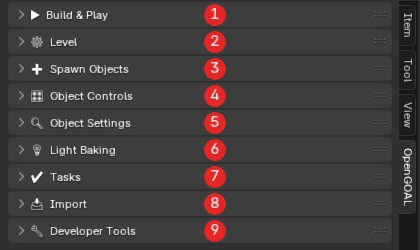
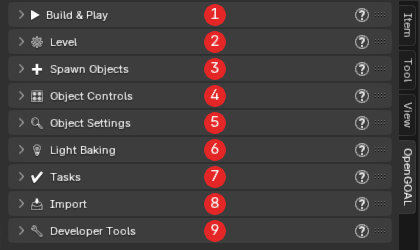
Docs: Warning Settings, Import Settings from .blend, ? guide buttons, bin buttons, helper collections, model list without duplicates; screenshots retaken with the ? buttons

diff --git a/docs/guide/paths-and-platforms.md b/docs/guide/paths-and-platforms.md
@@ -29,6 +29,7 @@ The list shows every **source** of the path in order: an empty is one point, and
 | Magnifier | Selects and frames the highlighted source. |
 | **Edit** (pencil) | Selects the source. A curve goes straight into Edit Mode. |
 | X | Removes the source from the path (the object stays in the scene). |
+| Bin | Removes the source **and deletes** the curve or empty from the scene (it asks first). |
 | Up / down arrows | Change the order. |
 
 A source that was deleted shows in red ("DELETED"). Remove it with X.
@@ -76,7 +77,7 @@ The **Path Mode** box under the list decides how the points are turned into the 
 
 Under the path, **Lump** is the lump name the main path exports to (normally `path`). **Keyframe** is an optional lump keyframe (blank = default).
 
-Some actors read more than one path. The swamp bat needs `path` and `pathb`, and the battle controller uses `patha` ... `pathh` and `pathspawn`. These actors get **Add Path** (for example "Add Path (pathb)"). Each extra path has its own box with a name, **@** keyframe, its own list, Spawn Waypoint / Add Curve, and its own mode. X removes it, along with its add-on-made waypoints. Two paths with the same name are flagged: only the first exports.
+Some actors read more than one path. The swamp bat needs `path` and `pathb`, and the battle controller uses `patha` ... `pathh` and `pathspawn`. These actors get **Add Path** (for example "Add Path (pathb)"). Each extra path has its own box with a name, **@** keyframe, its own list, Spawn Waypoint / Add Curve, and its own mode. X removes it, along with its add-on-made waypoints; the bin next to it also deletes its curves. Two paths with the same name are flagged: only the first exports.
 
 ## Sharing one path
 
@@ -121,7 +122,8 @@ Platforms are in the **Platforms** tile of [Spawn Objects](actors.md#spawning-an
 - **Eco Platform** (`plat-eco`): a floating platform that wakes up when Jak brings blue eco. **Entity Links** has **next-actor** / **prev-actor** slots, so a chain of them wakes up together. Use **Chain N selected by name (prev / next)** to link a row in one click.
 - **Button Platform** (`plat-button`): a platform with a button that moves along its path. It requires a path with at least 2 points.
 - **Orbit Platform** (`orbit-plat`): needs a partner orbit-plat in **alt-actor** (both linked to each other). Standing on one makes the other circle around it, only where its nav-mesh allows, so give both a nav-mesh. **Orbit timeout (s)** resets them.
-- **Launcher** (`launcher`) and other launchers: **Actor Settings › Launcher Settings** has **Launch Height** (-1 = the art's default), **Camera on Launch**, an optional **Launch Destination** empty (**Add Destination Empty at Cursor** or **Link →**; not set = Jak goes straight up), and **Fly Time** (only needed with a destination).
+- **Launcher** (`launcher`) and other launchers: **Actor Settings › Launcher Settings** has **Launch Height** (-1 = the art's default), **Camera on Launch**, an optional **Launch Destination** empty (**Add Destination Empty at Cursor**, which goes into the **Waypoints** collection, or **Link →**; X unlinks it, the bin
+also deletes it; not set = Jak goes straight up), and **Fly Time** (only needed with a destination).
 
 See the [Actor list](actor-list.md#platforms) for all of them.
 

diff --git a/docs/guide/interface.md b/docs/guide/interface.md
@@ -20,9 +20,11 @@ The panels are listed top to bottom; the numbers match the sidebar screenshot.
 | ⑥ | **Light Baking** | Bake Cycles lighting into the meshes' vertex colours, with bake options, time of day and colour quantisation. | [Lighting](lighting.md) |
 | ⑦ | **Tasks** | Your own power cells and scout flies, and their texts. Needs mod-base. | [Tasks](tasks.md) |
 | ⑧ | **Import** | **Game 3D Models**, **Game Textures** and **From GOAL Files** (read an existing level's `.jsonc`). | [Importing](importing.md) |
-| ⑨ | **Developer Tools** | **Clean Files**, **Paths**, **Addon Settings** (launch timing, build settings, versions) and **Quick Open** for the generated files. | [Developer Tools](developer-tools.md) |
+| ⑨ | **Developer Tools** | **Clean Files**, **Paths**, **Addon Settings** (launch timing, build settings, versions, importing settings from another .blend), **Warning Settings** and **Quick Open** for the generated files. | [Developer Tools](developer-tools.md) |
 
-Most panels start closed. Click a panel's header to open it.
+Most panels start closed. Click a panel's header to open it. The **?** on the right of the main panels' headers (and
+of larger features such as **Path**, **NavMesh**, **Camera Settings** or **GOAL Code**) opens that part of this guide in
+your browser.
 
 ## How a level is laid out
 
@@ -34,10 +36,10 @@ A level is a top-level collection in the Outliner (① in the Outliner screensho
 |---|---|
 | **Geometry** ② | The level's 3D model: every mesh in here and in its sub-collections is exported as the level's `.glb`. The add-on puts loose meshes in **Geometry › Solid**. |
 | **Spawnables** ③ | Actors, sorted by type: **Enemies** (bosses too), **Platforms**, **Props & Objects**, **NPCs**, **Pickups**. |
-| **Waypoints** ④ | The waypoint empties of actors' paths. |
+| **Waypoints** ④ | The waypoint empties of actors' paths, and launchers' destinations (`DEST_`). |
 | **Paths** | Curves used as paths. |
 | **Spawns** ⑤ | Checkpoints and their spawn cameras. |
-| **Cameras** ⑤ | `CAMERA_` cameras and their helper empties. |
+| **Cameras** ⑤ | `CAMERA_` cameras and their helper empties (anchor, pivot, look-at target). |
 | **Triggers** ⑤ | `VOL_` trigger volumes and load boundaries. |
 | **Water Volumes** | Water volumes. |
 | **Sound Emitters** | Sound emitters, music zones and hints. |
@@ -80,6 +82,9 @@ The add-on checks your level as you work. The results are only recomputed after 
 
 - **Red ⚠ count**: something is required but missing, for example an actor that must have a path or a link slot that must point to another actor. These can break the build or crash the game. Fix them first.
 - **Grey ⚠ count**: a soft warning. It works, but does less than you probably want, for example a sound whose sound bank the level doesn't load so it'll be missing.
+
+Warning types you don't care about can be turned off for the .blend in
+[Developer Tools › Warning Settings](developer-tools.md#warning-settings).
 
 The counts show next to **Export & Compile** for the whole level (⑤ in the Build & Play screenshot), and in an actor's **Object Settings** panels for that actor. Hover over a count to see what's missing; click it to see the list.
 

diff --git a/docs/guide/developer-tools.md b/docs/guide/developer-tools.md
@@ -8,7 +8,8 @@ when they work on several projects. The parts marked *advanced* can break a buil
 
 ![Sidebar](images/sidebar.png)
 
-At the top is **Clean Files**. Under it are three closed sub-menus: **Paths**, **Addon Settings** and **Quick Open**.
+At the top is **Clean Files**. Under it are four closed sub-menus: **Paths**, **Addon Settings**, **Warning Settings**
+and **Quick Open**.
 
 ---
 
@@ -150,6 +151,44 @@ How OpenGOAL is detected:
 | **Re-check Versions** | Detects the version again (after updating OpenGOAL or changing paths). |
 | **Overwrite** | Ignores the detection: **Detected** (normal), **Release**, **jak-project dev**, **mod-base dev**. Use it when the detection is wrong for your setup, e.g. a dev build without git. A dev build set by hand without git is taken as up to date. |
 | **v** | With **Overwrite: Release**, the release version (default 0.3.8). |
+
+### Import Settings from .blend
+
+Copies this add-on's settings from another .blend, for example when you start a new project file.
+
+1. Click **Import Settings from .blend** (at the bottom of Addon Settings) and pick the .blend.
+2. A dialog lists five groups, each with a checkbox: **Launch Timing**, **Build Settings**, **Export Filter**,
+   **Project Folders** and **Warning Settings**. Under each, it shows what would change as *current → imported*
+   (*Same as this .blend* when nothing would).
+3. Untick the groups you don't want and click **Import**. Ctrl+Z undoes it.
+
+The other file is only read: nothing else (objects, levels, collections) is brought in.
+
+---
+
+## Warning Settings
+
+Turns off whole types of warnings for this .blend: ignored types aren't counted in the ⚠ counts (next to **Export &
+Compile** and in Object Settings) and don't show in the **Level Audit**. The header shows how many types are ignored.
+Use it for warnings you know about and don't care about, for example sound banks while you're still blocking out a
+level. The settings are saved in the .blend.
+
+| Type | Kind |
+|---|---|
+| **Required link missing** | red |
+| **Required path missing** | red |
+| **Required field or task not set** | red |
+| **Sound emitter's sound bank not loaded** | red |
+| **Linked nav-mesh problems** | red |
+| **Nothing sends it 'trigger** | grey |
+| **Actor's sound bank not loaded (silent sounds)** | grey |
+| **Optional link missing** | grey |
+| **Not linked by the actor that should link it** | grey |
+| **No nav-mesh (idles, can't chase)** | grey |
+| **Nav-mesh soft issues** | grey |
+
+The red (required) types are shown in red, marked *(required)*: ignoring them hides problems that can crash the
+game or break the build. What each warning means: [Troubleshooting](troubleshooting.md#warning-counts-red-and-grey-).
 
 ---
 

diff --git a/docs/guide/actors.md b/docs/guide/actors.md
@@ -101,7 +101,7 @@ How the fields work:
 - On/off fields are toggle buttons.
 - **Alt+click** a choice or toggle to set it on every selected actor that has the same field, the way Alt works on normal Blender properties.
 - Game task fields open a search with every game task and your own tasks, plus **Custom…** to type a name ([Tasks](tasks.md)).
-- Object fields (an empty or a camera the actor uses) have **Pick** / **Change**, a clear button (X), and for empties **Add Empty at Cursor**.
+- Object fields (an empty or a camera the actor uses) have **Pick** / **Change**, a clear button (X), and for empties a bin (clear and delete the empty, it asks first) and **Add Empty at Cursor**.
 - Colour fields show **Set colour** until you set one.
 - Height fields can have **Set to this actor's height**.
 - Some fields are grouped in a collapsed sub-menu with a title.
@@ -177,6 +177,7 @@ Power cells, and actors that give a power cell, have **Movie Position**: where t
 | **Link → <empty>** | Uses a shift-selected empty. |
 | **Search empty…** | Picks any empty by name. |
 | X | Removes the position from the list (the empty stays). |
+| Bin | Removes it from the list **and deletes** the empty (it asks first). |
 | **Victory animations not to use (movie-mask)** | 8 toggles. Turn on the animations the cell must not pick (for example one that clips through a wall). |
 
 With no position set, the game uses its default spot. Some actors use several positions by number, so the list order matters.

diff --git a/docs/guide/install.md b/docs/guide/install.md
@@ -88,6 +88,7 @@ You can also set the folders per `.blend` file instead: **Developer Tools › Pa
 | **Select actors by their preview model** | Clicking or box-selecting a preview model selects its actor. Turn off to select the preview meshes themselves. On by default. |
 | **Snapping skips the moved actor's preview** | While actors are selected you can't snap to their own previews (they move with them). Other actors' previews still work. Turns on Blender's snapping option *Exclude Non-Selectable*. Needs the setting above. On by default. |
 | **Connect spawned actors to the selection** | When you spawn an actor, link what was selected: a curve becomes its path, a nav-mesh (or an actor that has one) becomes its nav-mesh, a `VOL_` volume becomes its volume. On by default. |
+| **Ask before deleting linked helpers** | The bin button next to a linked path, position empty, nav-sphere or nav-mesh asks before it deletes the object. Ticking **Don't ask again** in that dialog turns this off. On by default. |
 | **8-bit colours in every glTF export** | Level exports always write vertex colours as 8-bit. With this on, glTF exports you make by hand (**File › Export › glTF**) do the same. Off by default. |
 | **Game database: Override** | A `.jsonc` file used instead of the bundled `jak1_game_database.jsonc`. For advanced users; see [Developer Tools](developer-tools.md). |
 | **Reload Database** | Reads the database again (this reloads the add-on). Use it after changing the override. |

diff --git a/docs/guide/enemies-and-navmesh.md b/docs/guide/enemies-and-navmesh.md
@@ -51,7 +51,8 @@ Select the enemy and open **Object Settings › Actor Settings › NavMesh**:
 - Shift-select the nav-mesh too and click **Link → NAVMESH_...**, or
 - click **Search navmesh…** and pick one (meshes that aren't nav-meshes yet are marked so; linking one makes it a nav-mesh).
 
-The panel then shows **✓ NAVMESH_...** with an **X** to unlink, and its triangle count.
+The panel then shows **✓ NAVMESH_...** with an **X** to unlink, a bin to unlink and delete the mesh (it asks first and
+says how many other actors use it), and its triangle count.
 
 ### Share one mesh between several enemies
 
@@ -77,7 +78,7 @@ Nav-spheres are round areas the mesh's enemies steer around (a pillar, a tree). 
 
 - **New** adds a sphere empty `NAVSPHERE_...` at the 3D cursor.
 - **Add Empty** uses an existing empty.
-- The radius is the empty's display size × its scale (shown as **r ... m**). **X** removes it from the list (the empty stays).
+- The radius is the empty's display size × its scale (shown as **r ... m**). **X** removes it from the list (the empty stays); the bin also deletes the empty.
 
 None by default.
 

diff --git a/docs/guide/cameras.md b/docs/guide/cameras.md
@@ -72,7 +72,8 @@ A Side-Scroll or Orbit camera without its anchor / pivot, or a Path camera witho
 
 ### Look-At
 
-**Add Look-At Target** adds a `CAMERA_N_LOOKAT` empty at the 3D cursor. The camera then ignores its own rotation and aims at the target. **Clear Look-At** removes the link. Without a target, a camera that was never rotated shows **⚠ Camera has no rotation!**
+**Add Look-At Target** adds a `CAMERA_N_LOOKAT` empty at the 3D cursor (like the anchor and pivot, it goes into the
+level's **Cameras** collection). The camera then ignores its own rotation and aims at the target. **Clear Look-At** removes the link. Without a target, a camera that was never rotated shows **⚠ Camera has no rotation!**
 
 ### Volumes
 

diff --git a/docs/guide/troubleshooting.md b/docs/guide/troubleshooting.md
@@ -25,7 +25,8 @@ There are two kinds:
 Hover a count to see the list. Click it to open a popup: for a red count on an actor the popup has the missing
 fields themselves, so you can fill them in right there. The level count lists the actors; click a name to select it.
 
-The counts update after every edit (moving objects doesn't count as an edit).
+The counts update after every edit (moving objects doesn't count as an edit). To stop counting a whole type of
+warning in this .blend, tick it in [Developer Tools › Warning Settings](developer-tools.md#warning-settings).
 
 ![Build & Play](images/build-play.png)
 

diff --git a/docs/guide/importing.md b/docs/guide/importing.md
@@ -22,7 +22,8 @@ paths: **Preferences › Decompiler output (override)**, or this .blend's **Deco
 ## Game 3D Models
 
 **Import › Game 3D Models** lists every `.glb` file under `decompiler_out/jak1/` (all subfolders, e.g.
-`levels/village1/village1-background.glb` or `levels/beach/babak-lod0.glb`).
+`levels/village1/village1-background.glb` or `levels/beach/babak-lod0.glb`). A model the decompiler wrote in
+several levels' folders (like `babak-lod0`) is listed once.
 
 ### First time: Find Models
 
